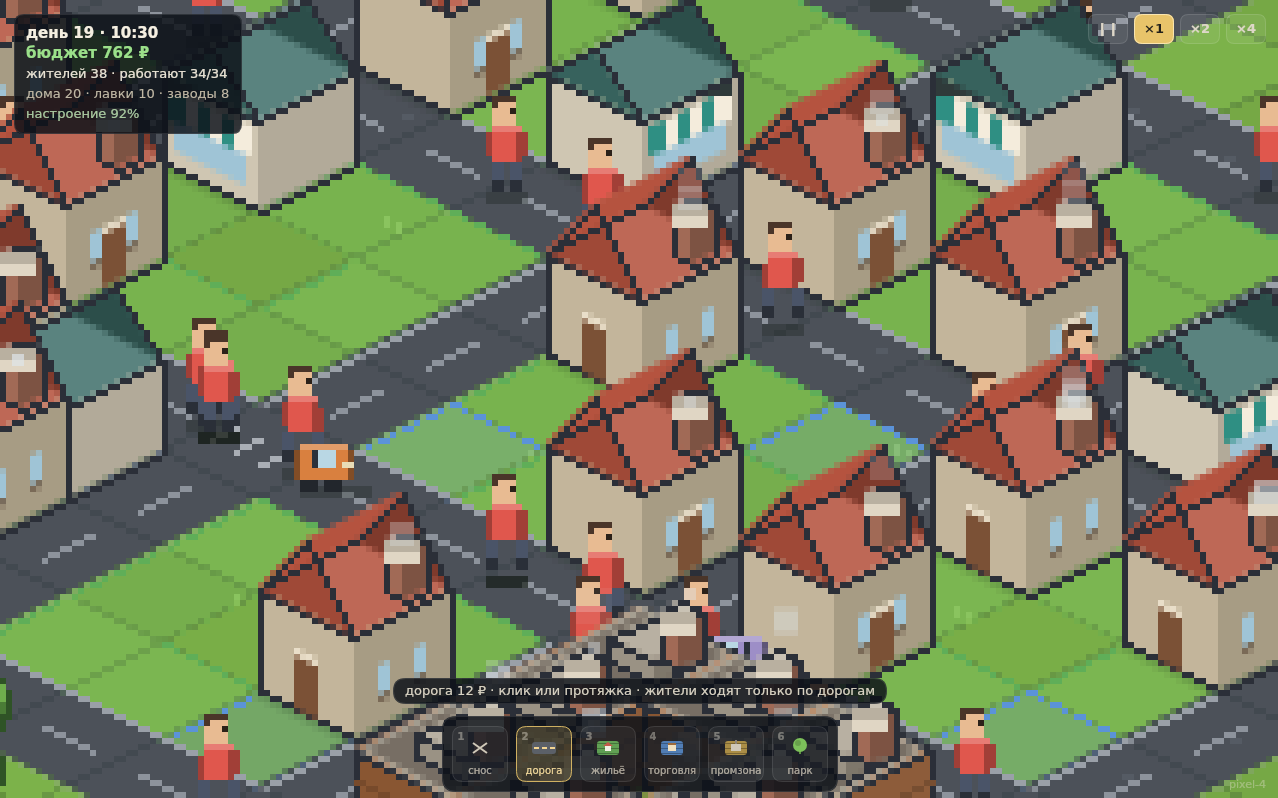
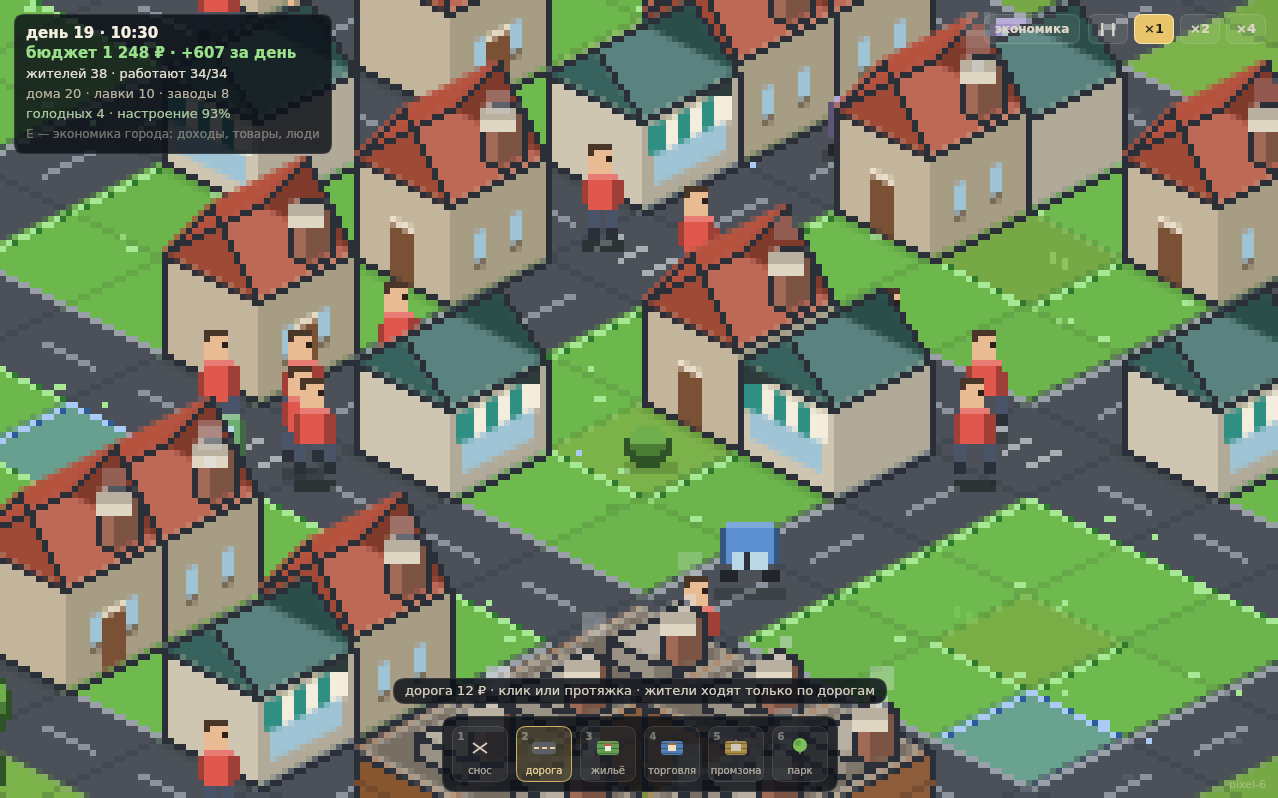
isocity: события города в подсказках и сборка pixel-6
- симуляция копит события (стройка, приезд, отъезд), HUD показывает их
  короткими сообщениями: «стройка: дом · −100 ₽ из бюджета»,
  «Аня переехала в город · +60 ₽»
- очередь событий ограничена и вычищается каждый кадр
- сборка pixel-6: версии модулей обновлены

diff --git a/isocity/src/main.js b/isocity/src/main.js
@@ -1,7 +1,7 @@
-import { Sim, COSTS, CAPITAL } from './sim.js?v=2026-11-01-pixel-5';
-import { Renderer, TOOLS } from './render.js?v=2026-11-01-pixel-5';
+import { Sim, COSTS, CAPITAL } from './sim.js?v=2026-11-01-pixel-6';
+import { Renderer, TOOLS } from './render.js?v=2026-11-01-pixel-6';
 
-export const BUILD = 'pixel-5';
+export const BUILD = 'pixel-6';
 
 const canvas = document.getElementById('city');
 const sim = new Sim(7);
@@ -240,18 +240,18 @@ function cameraKeys(dt) {
 }
 
 // ------------------------------------------------- tell the player about money
-// Every new building costs the city budget, so it is announced: that answers
-// the "where did my money go" question without opening any menu.
-let knownSites = 0;
-const NAMES_OF_KINDS = { house: 'дом', shop: 'лавка', factory: 'завод', park: 'парк', cityhall: 'ратуша' };
-function watchBuilding() {
-  if (sim.sites.length > knownSites) {
-    const site = sim.sites[sim.sites.length - 1];
-    const kind = site.building.kind;
-    const price = (COSTS[kind] || 0) + (CAPITAL[kind] || 0);
-    renderer.toastMessage(`стройка: ${NAMES_OF_KINDS[kind] || kind} · −${price} ₽ из бюджета`);
+// The simulation queues important events (a house is being built, someone
+// arrived, someone left) and the UI turns them into short messages. That is the
+// answer to "where did my money go" without opening any menu.
+const KIND_NAMES = { house: 'дом', shop: 'лавка', factory: 'завод', park: 'парк', cityhall: 'ратуша' };
+function watchEvents() {
+  if (!sim.events.length) return;
+  const events = sim.events.splice(0, sim.events.length);
+  for (const ev of events) {
+    if (ev.type === 'build') renderer.toastMessage(`стройка: ${KIND_NAMES[ev.kind] || ev.kind} · −${ev.price} ₽ из бюджета`);
+    else if (ev.type === 'arrive') renderer.toastMessage(`${ev.name} переехал(а) в город · +${Math.round(ev.cash)} ₽`);
+    else if (ev.type === 'leave') renderer.toastMessage(`${ev.name} уехал(а) из города · −${Math.round(ev.cash)} ₽`, true);
   }
-  knownSites = sim.sites.length;
 }
 
 // --------------------------------------------------------------------- loop
@@ -262,7 +262,7 @@ function frame(now) {
   acc += dt;
   cameraKeys(dt);
   sim.update(dt);
-  watchBuilding();
+  watchEvents();
   renderer.update(dt);
   renderer.draw();
   requestAnimationFrame(frame);

diff --git a/isocity/src/sim.js b/isocity/src/sim.js
@@ -7,7 +7,7 @@
 //      pockets. The only outside money is the savings a newcomer brings and the
 //      savings a leaver takes away - both are reported separately in the ledger.
 
-import { World, N, T } from './world.js?v=2026-11-01-pixel-5';
+import { World, N, T } from './world.js?v=2026-11-01-pixel-6';
 
 export const MIN_PER_SEC = 10; // game minutes per real second at 1x speed
 export const HOUR = 60;
@@ -81,6 +81,8 @@ export class Sim {
     this.total = this.emptyLedger();    // since the town was founded
     // what the whole city produced, bought and shipped, in units of goods
     this.goods = { produced: 0, sold: 0, exported: 0, imported: 0, restocked: 0 };
+    // things worth telling the player about (the UI turns these into toasts)
+    this.events = []; // capped, the UI drains it every frame
     // money that crossed the border of the city: savings of newcomers, money
     // taken away by leavers, goods sold to and bought from the outside world
     this.external = { in: 0, out: 0 };
@@ -243,6 +245,7 @@ export class Sim {
       c.y = edge.y + 0.5;
       c.state = 'newcomer';
       this.walkTo(c, home.door);
+      this.note({ type: 'arrive', name: c.name, cash: c.cash });
     }
     this.citizens.push(c);
     return c;
@@ -497,6 +500,7 @@ export class Sim {
     site.builders = [];
     if (b.kind !== 'house' && b.kind !== 'park') this.addFirm(b, { capital: site.capital });
     if (b.kind === 'house') b.residents = b.residents || [];
+    this.note({ type: 'done', kind: b.kind });
     const idx = this.sites.indexOf(site);
     if (idx >= 0) this.sites.splice(idx, 1);
     this.world.version++;
@@ -663,6 +667,11 @@ export class Sim {
     return null;
   }
 
+  note(ev) {
+    if (this.events.length > 40) this.events.shift();
+    this.events.push(ev);
+  }
+
   startSite(kind, x, y, size) {
     const cost = COSTS[kind];
     const capital = CAPITAL[kind] || 0;
@@ -673,6 +682,7 @@ export class Sim {
       this.budget += cost + capital;
       return null;
     }
+    this.note({ type: 'build', kind, price: cost + capital });
     const site = {
       building: b,
       x,
@@ -736,6 +746,7 @@ export class Sim {
   }
 
   startLeaving(c) {
+    this.note({ type: 'leave', name: c.name, cash: c.cash });
     c.state = 'leaving';
     c.path = null;
     if (c.work) {

diff --git a/isocity/src/render.js b/isocity/src/render.js
@@ -2,9 +2,9 @@
 // blow it up by a whole number with smoothing off. That is what keeps the
 // picture crisp and "pixel" at any window size.
 
-import { TW, TH, HW, HH, iso, corners, fill, pxLine, diamond } from './iso.js?v=2026-11-01-pixel-5';
-import { T } from './world.js?v=2026-11-01-pixel-5';
-import { drawGroundTile, drawBuilding, drawCitizen, drawTruck, drawCar, drawProp, PAL } from './art.js?v=2026-11-01-pixel-5';
+import { TW, TH, HW, HH, iso, corners, fill, pxLine, diamond } from './iso.js?v=2026-11-01-pixel-6';
+import { T } from './world.js?v=2026-11-01-pixel-6';
+import { drawGroundTile, drawBuilding, drawCitizen, drawTruck, drawCar, drawProp, PAL } from './art.js?v=2026-11-01-pixel-6';
 
 const FONT = "system-ui, -apple-system, 'Segoe UI', Roboto, 'Helvetica Neue', Arial, sans-serif";
 const HINT_SIZE = 13;

diff --git a/isocity/src/art.js b/isocity/src/art.js
@@ -1,8 +1,8 @@
 // Pixel art. Everything here paints into world-pixel coordinates with integer
 // positions and 1px outlines; the renderer only upscales the finished frame.
 
-import { TW, TH, HW, HH, iso, corners, fill, box, diamond, pxLine, pitchedRoof, wallRect, outline } from './iso.js?v=2026-11-01-pixel-5';
-import { T } from './world.js?v=2026-11-01-pixel-5';
+import { TW, TH, HW, HH, iso, corners, fill, box, diamond, pxLine, pitchedRoof, wallRect, outline } from './iso.js?v=2026-11-01-pixel-6';
+import { T } from './world.js?v=2026-11-01-pixel-6';
 
 export const PAL = {
   grass: ['#79ae47', '#7cb24a', '#76a845'],

diff --git a/isocity/index.html b/isocity/index.html
@@ -30,6 +30,6 @@
   </head>
   <body>
     <canvas id="city"></canvas>
-    <script type="module" src="./src/main.js?v=2026-11-01-pixel-5"></script>
+    <script type="module" src="./src/main.js?v=2026-11-01-pixel-6"></script>
   </body>
 </html>
